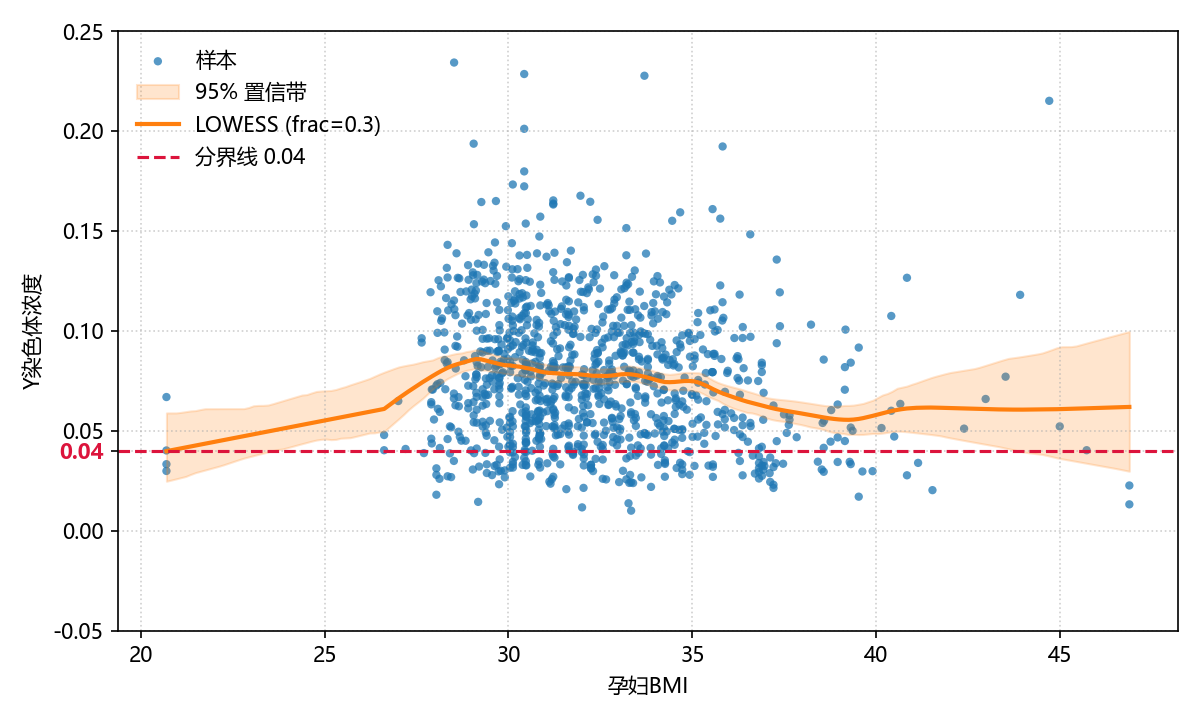
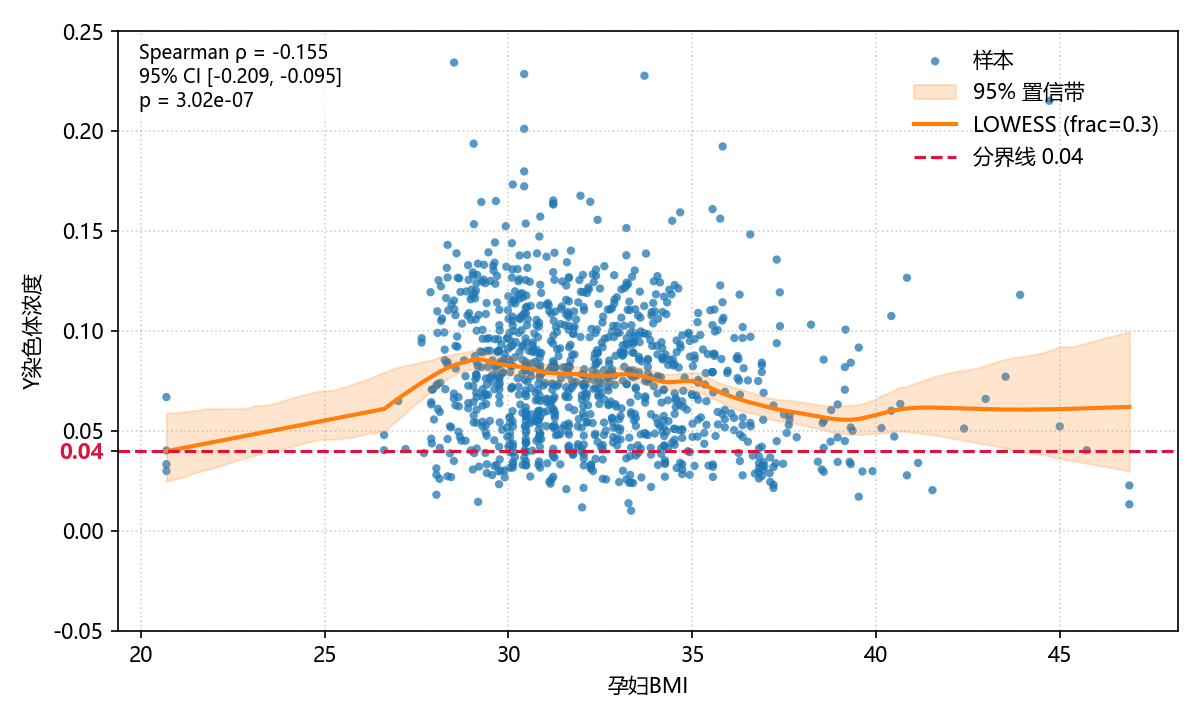
feat:散点图上方添加Spearman ρ 与 95%CI（bootstrap）和 p 值

Changed region(s): [[0.0925, 0.0611, 0.3083, 0.2444], [0.74, 0.0611, 0.9867, 0.2444]]

diff --git a/code/plot_y_vs_week.py b/code/plot_y_vs_week.py
@@ -123,8 +123,51 @@ def main():
     # Light grid for readability
     ax.grid(True, linestyle=":", linewidth=0.8, alpha=0.6)
 
-    # Legend
-    ax.legend(frameon=False)
+    # Legend: 固定右上角，避免与左上角统计标注冲突
+    ax.legend(frameon=False, loc="upper right")
+
+    # 计算并标注 Spearman ρ、95% CI 和 p 值
+    try:
+        from scipy.stats import spearmanr
+
+        def spearman_ci(xv, yv, n_boot=1000, seed=42):
+            xv = np.asarray(xv, dtype=float)
+            yv = np.asarray(yv, dtype=float)
+            mask = np.isfinite(xv) & np.isfinite(yv)
+            xv, yv = xv[mask], yv[mask]
+            if xv.size < 3:
+                return np.nan, (np.nan, np.nan), np.nan
+            rho, p = spearmanr(xv, yv)
+            rng = np.random.default_rng(seed)
+            n = xv.size
+            boots = []
+            for _ in range(n_boot):
+                idx = rng.integers(0, n, size=n)
+                r_b, _ = spearmanr(xv[idx], yv[idx])
+                if np.isfinite(r_b):
+                    boots.append(r_b)
+            if len(boots) >= 2:
+                lo, hi = np.percentile(boots, [2.5, 97.5])
+            else:
+                lo, hi = (np.nan, np.nan)
+            return rho, (lo, hi), p
+
+        xv = data["week"].to_numpy(dtype=float)
+        yv = data["y"].to_numpy(dtype=float)
+        rho, (lo, hi), p = spearman_ci(xv, yv, n_boot=1000, seed=42)
+        annot = f"Spearman ρ = {rho:.3f}\n95% CI [{lo:.3f}, {hi:.3f}]\np = {p:.3g}"
+        ax.text(
+            0.02,
+            0.98,
+            annot,
+            transform=ax.transAxes,
+            ha="left",
+            va="top",
+            fontsize=9,
+            bbox=dict(boxstyle="round", facecolor="white", alpha=0.7, edgecolor="none"),
+        )
+    except Exception:
+        print("未能计算Spearman相关/置信区间，请先安装 SciPy：pip install scipy")
 
     # Tight layout and save
     fig.tight_layout()

diff --git a/code/plot_y_vs_bmi_scatter.py b/code/plot_y_vs_bmi_scatter.py
@@ -121,7 +121,48 @@ def main():
 
     # Grid
     ax.grid(True, linestyle=":", linewidth=0.8, alpha=0.6)
-    ax.legend(frameon=False)
+    ax.legend(frameon=False, loc="upper right")
+
+    # 计算并标注 Spearman ρ、95% CI 和 p 值
+    try:
+        from scipy.stats import spearmanr
+
+        def spearman_ci(xv, yv, n_boot=1000, seed=42):
+            xv = np.asarray(xv, dtype=float)
+            yv = np.asarray(yv, dtype=float)
+            mask = np.isfinite(xv) & np.isfinite(yv)
+            xv, yv = xv[mask], yv[mask]
+            if xv.size < 3:
+                return np.nan, (np.nan, np.nan), np.nan
+            rho, p = spearmanr(xv, yv)
+            rng = np.random.default_rng(seed)
+            n = xv.size
+            boots = []
+            for _ in range(n_boot):
+                idx = rng.integers(0, n, size=n)
+                r_b, _ = spearmanr(xv[idx], yv[idx])
+                if np.isfinite(r_b):
+                    boots.append(r_b)
+            if len(boots) >= 2:
+                lo, hi = np.percentile(boots, [2.5, 97.5])
+            else:
+                lo, hi = (np.nan, np.nan)
+            return rho, (lo, hi), p
+
+        rho, (lo, hi), p = spearman_ci(x, y, n_boot=1000, seed=42)
+        annot = f"Spearman ρ = {rho:.3f}\n95% CI [{lo:.3f}, {hi:.3f}]\np = {p:.3g}"
+        ax.text(
+            0.02,
+            0.98,
+            annot,
+            transform=ax.transAxes,
+            ha="left",
+            va="top",
+            fontsize=9,
+            bbox=dict(boxstyle="round", facecolor="white", alpha=0.7, edgecolor="none"),
+        )
+    except Exception:
+        print("未能计算Spearman相关/置信区间，请先安装 SciPy：pip install scipy")
 
     fig.tight_layout()
     fig.savefig(output_path)
